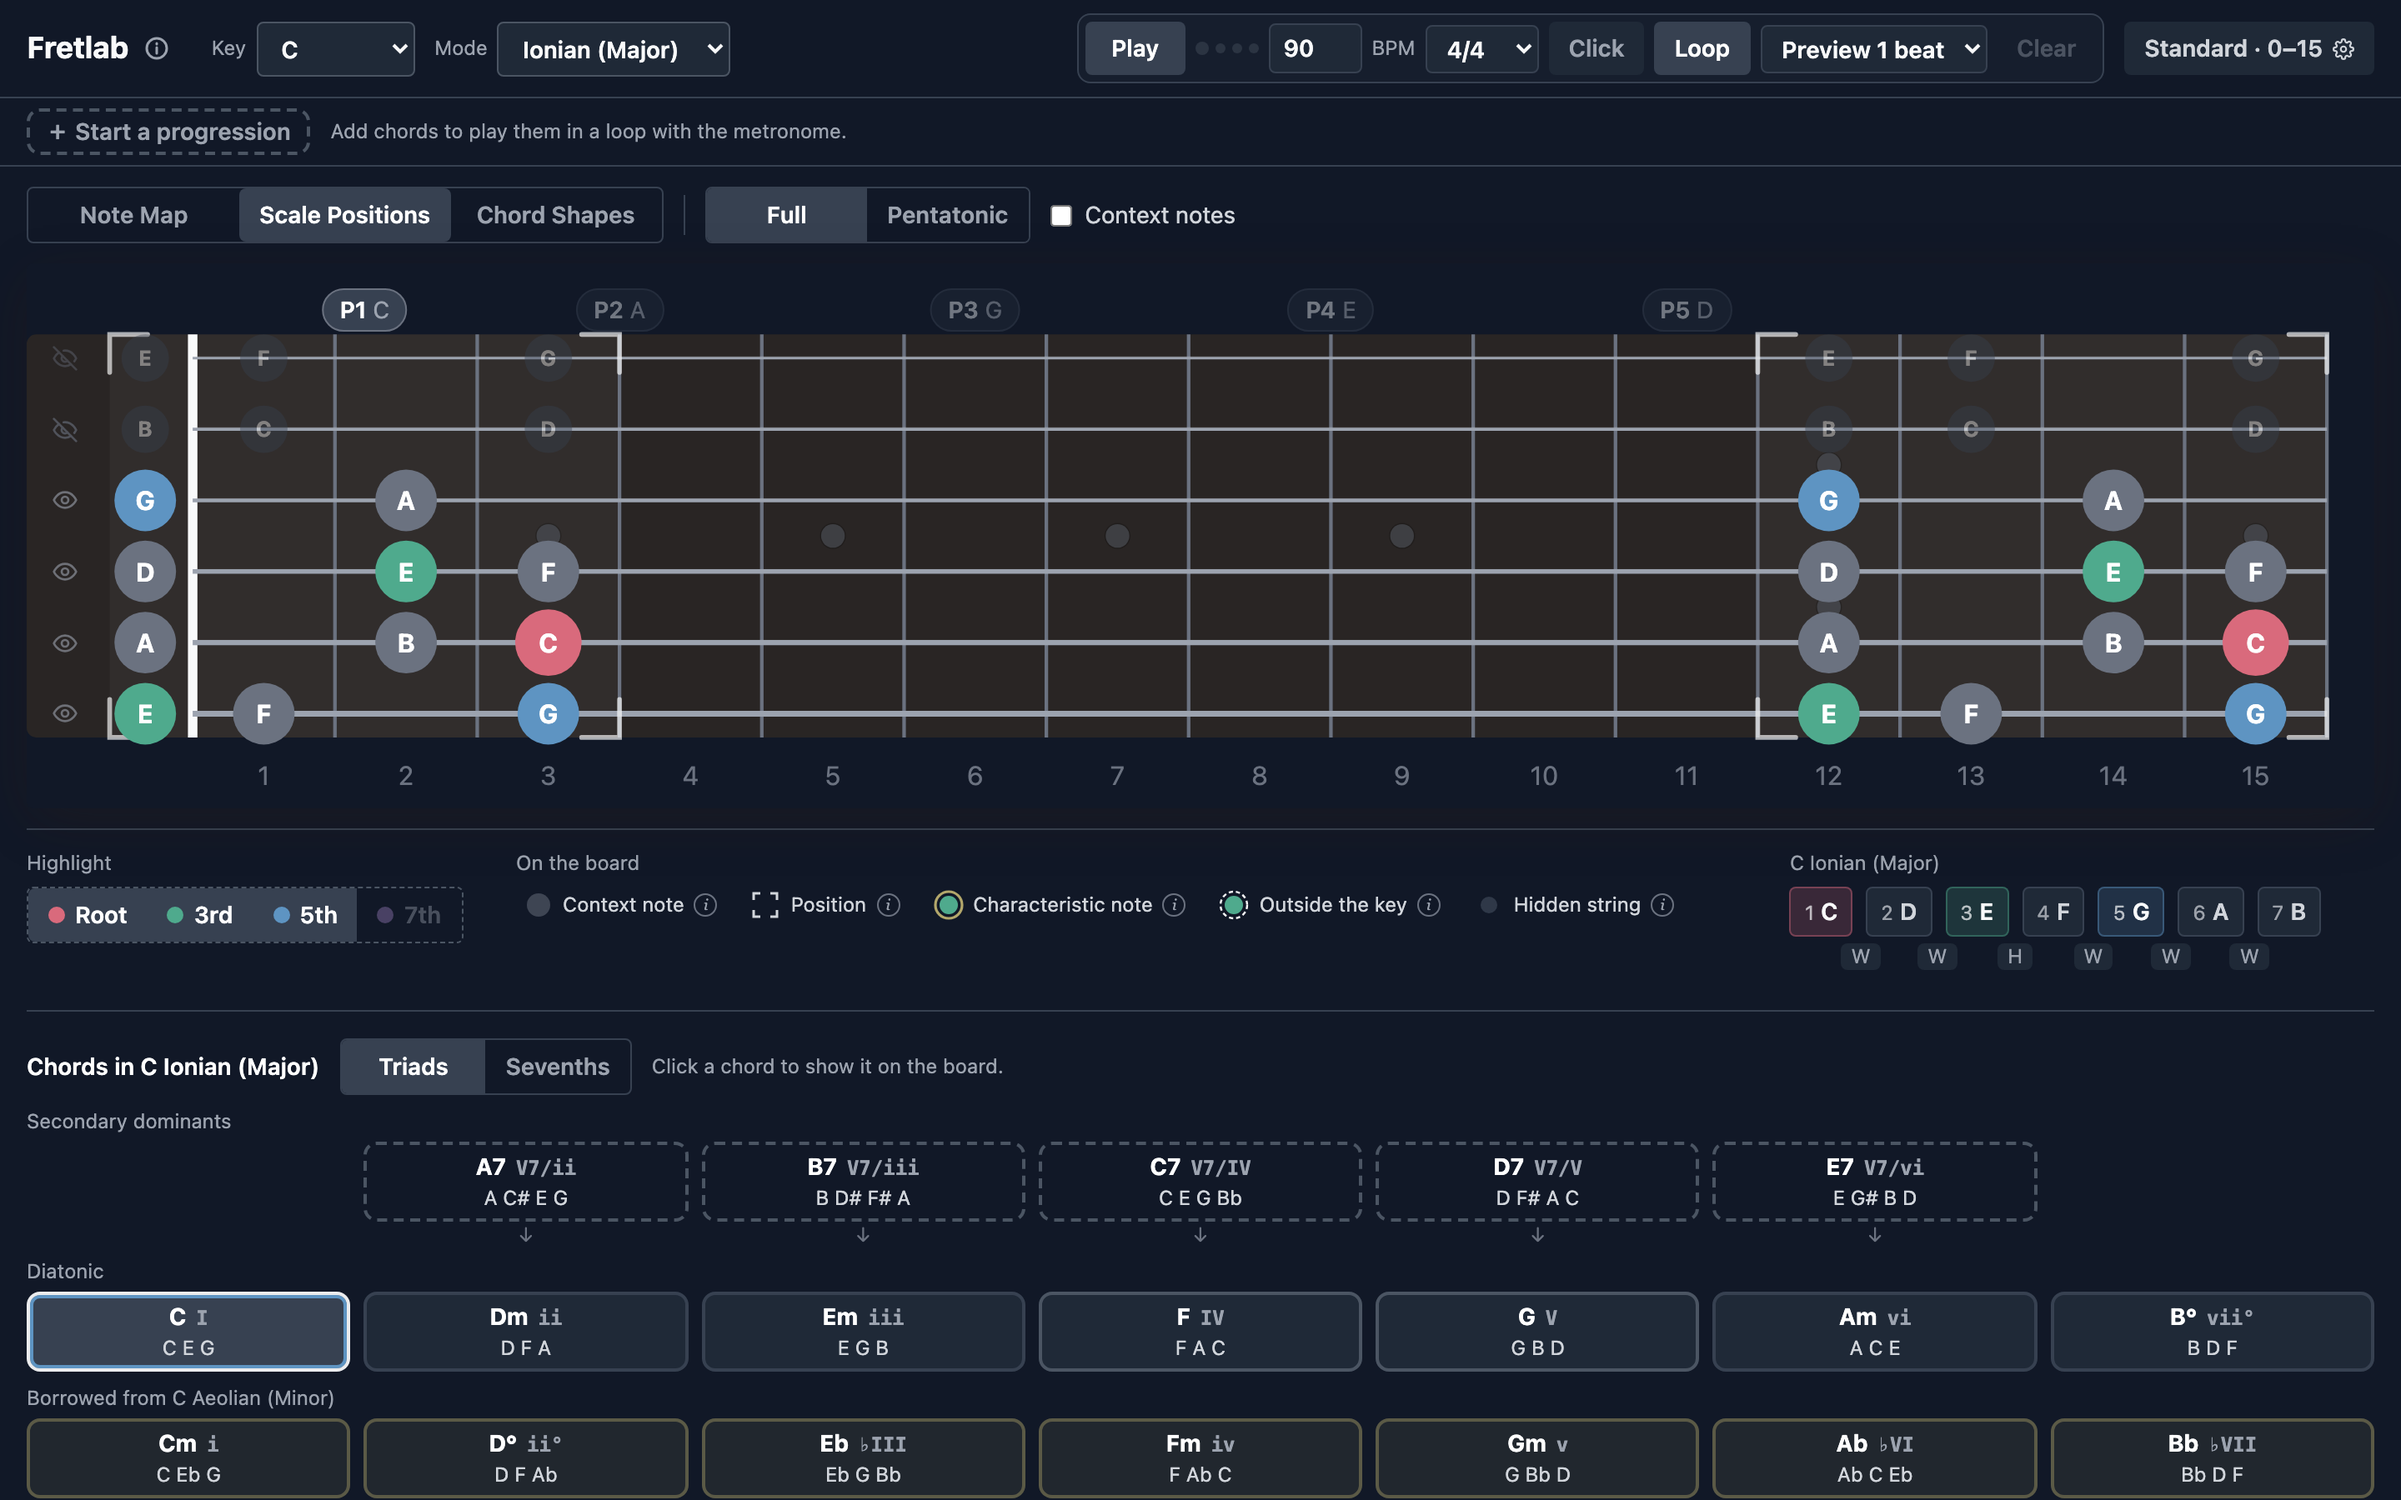
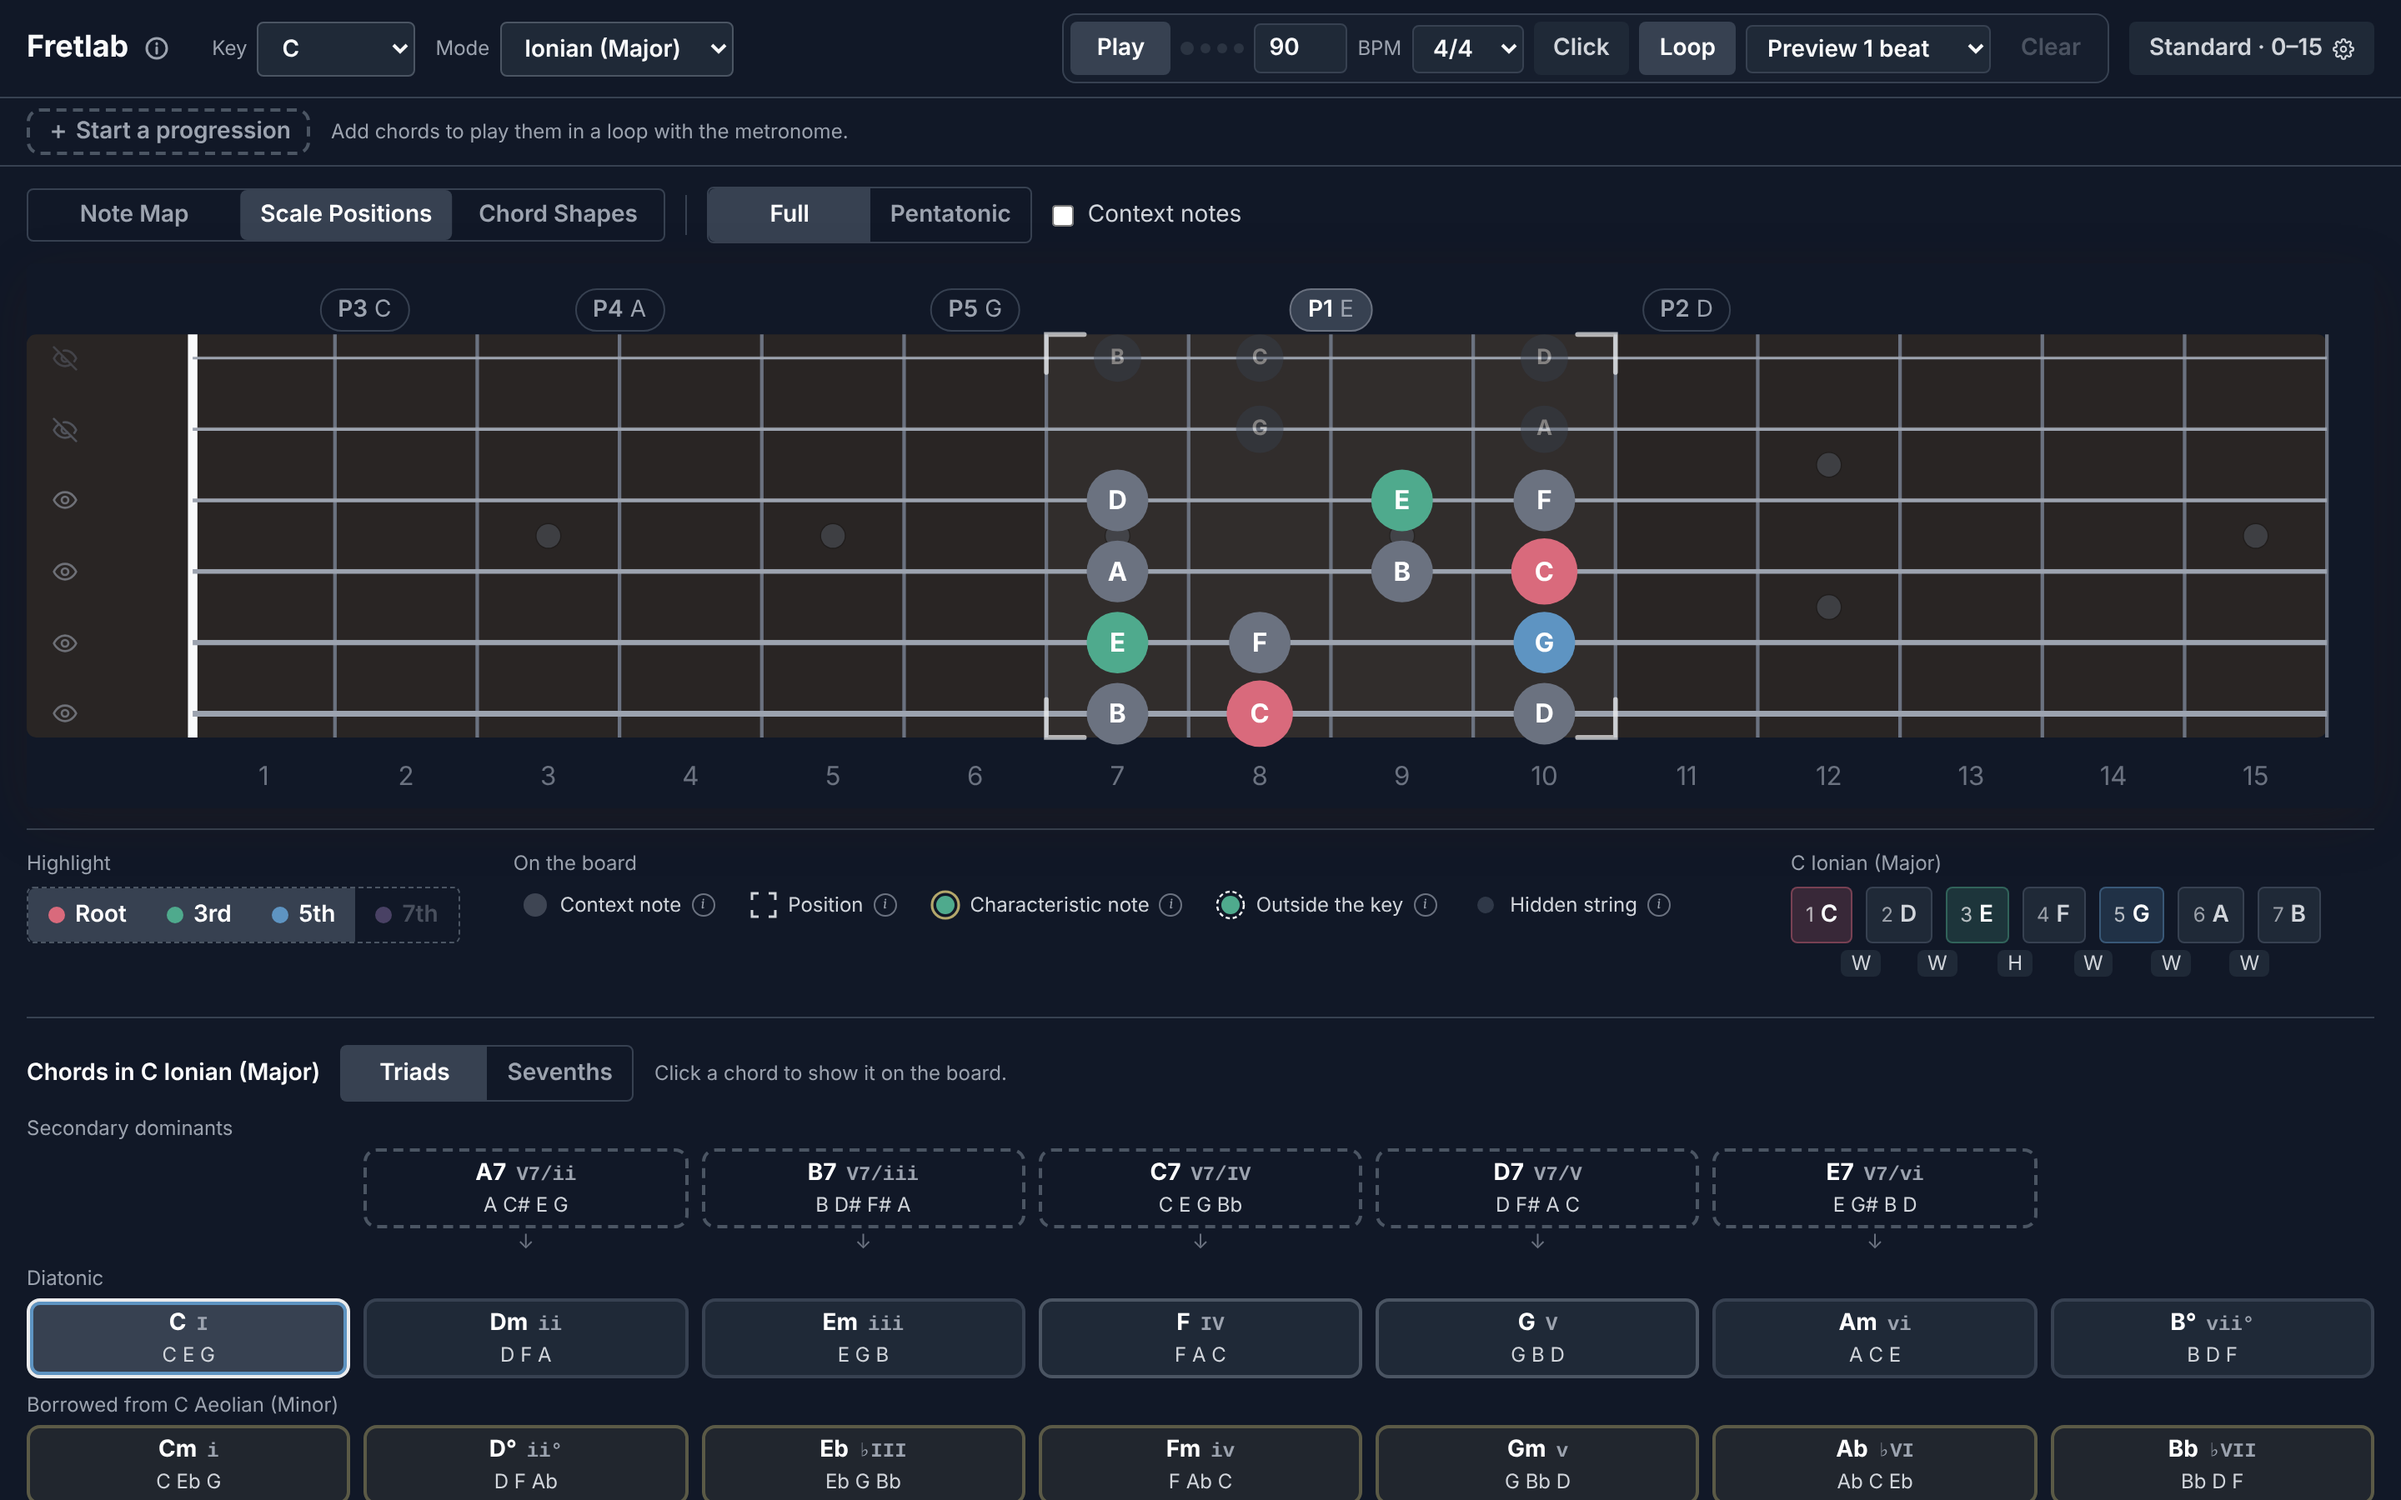
Re-record README images with E-first position labels
Claude-Session: https://claude.ai/code/session_01ViXxniyNiRL6LHNoWv4Fgc

diff --git a/README.md b/README.md
@@ -338,7 +338,7 @@ etc.) correctly identifies where each shape's barre actually lives on the new ne
 
 ## String focus
 
-![Screenshot of Scale Positions in C with P1 boxed at frets 0–3 and again at 12–15. The high E and B strings are muted with the eye icons on the left of the board, so their notes are dimmed.](docs/images/string-toggle.png)
+![Screenshot of Scale Positions in C with P1 (the E shape) boxed at frets 7–10; the labels above the board run P3 C, P4 A, P5 G, P1 E, P2 D up the neck. The high E and B strings are muted with the eye icons on the left of the board, so their notes are dimmed.](docs/images/string-toggle.png)
 
 An eye-icon column on the left of every fretboard lets you mute individual strings.
 Click an eye to toggle that string — the icon swaps to an eye-with-slash, and every
